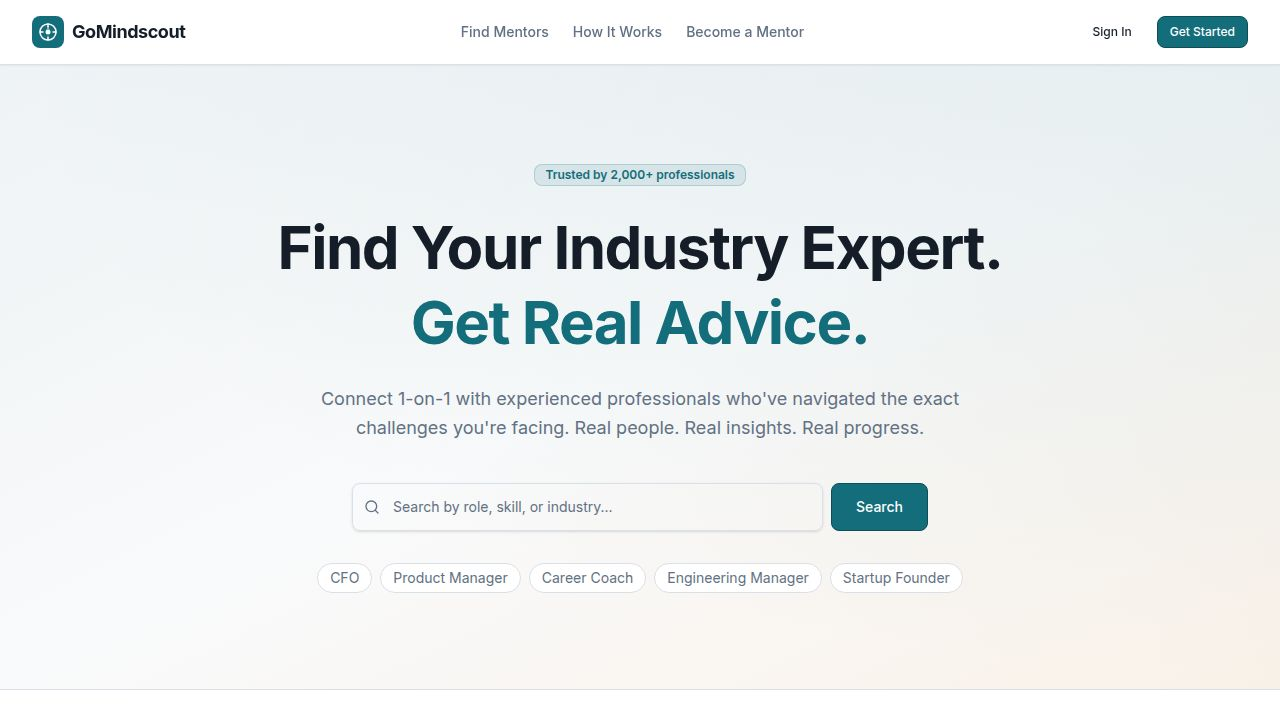
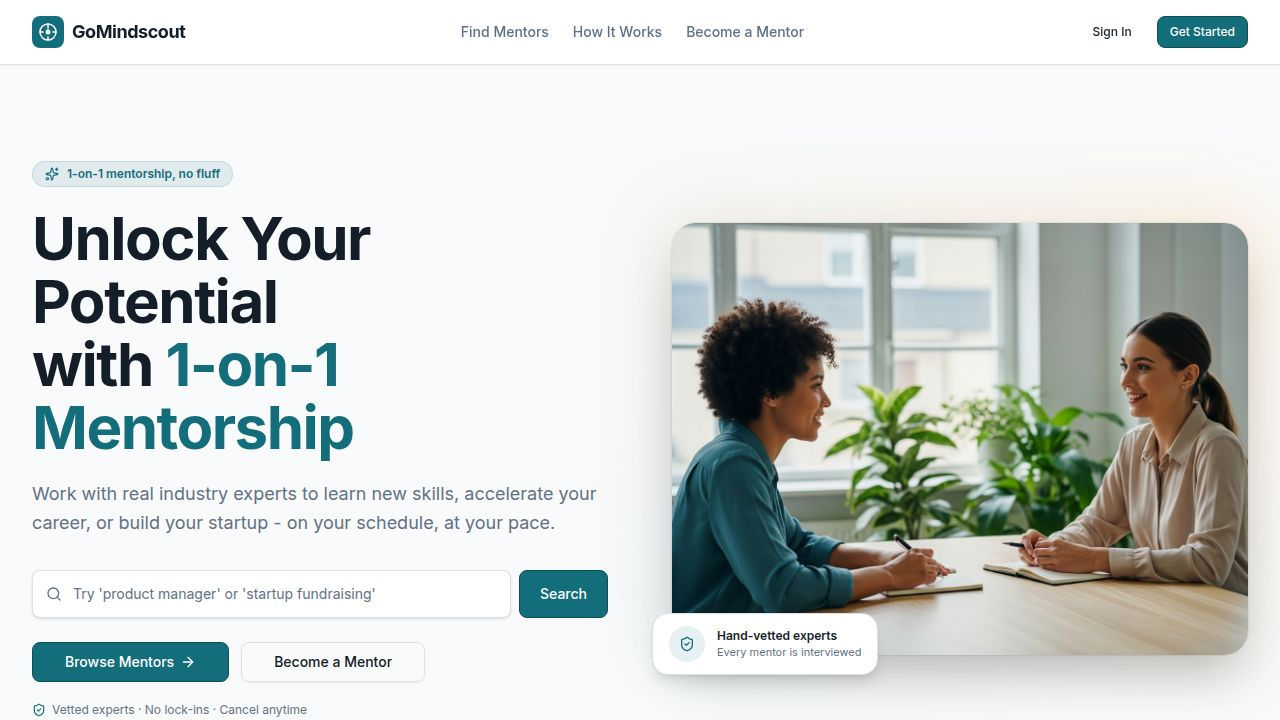
Remove email package type from the platform entirely
Remove the 'email' package type from the database schema, OpenAPI specification, API routes, seed data, and all frontend references. This change ensures that only video call packages are available for booking and display across the platform.

Replit-Commit-Author: Agent
Replit-Commit-Session-Id: 4a8be8ed-cd13-4642-8a18-407edc4f0439
Replit-Commit-Checkpoint-Type: full_checkpoint
Replit-Commit-Event-Id: c0013420-3b71-451f-8d49-6b689d5ad024
Replit-Commit-Screenshot-Url: https://storage.googleapis.com/screenshot-production-us-central1/f0a1bcf3-63e8-4cc1-b61f-0afa3e402f8b/4a8be8ed-cd13-4642-8a18-407edc4f0439/x5psZhw
Replit-Helium-Checkpoint-Created: true

diff --git a/artifacts/mentorbridge/src/pages/how-it-works.tsx b/artifacts/mentorbridge/src/pages/how-it-works.tsx
@@ -31,14 +31,14 @@ export default function HowItWorksPage() {
               icon: <CreditCard className="h-7 w-7 text-primary" />,
               title: "Book & Pay Securely",
               desc: "Choose a session package that suits your needs and pay securely via Stripe. No hidden fees - the price you see is the price you pay.",
-              points: ["30-min intro calls for quick questions", "60-min deep dives for complex challenges", "Async email advice for written guidance", "100% secure payment via Stripe"],
+              points: ["30-min intro calls for quick questions", "60-min deep dives for complex challenges", "100% secure payment via Stripe"],
             },
             {
               step: "03",
               icon: <Video className="h-7 w-7 text-primary" />,
               title: "Have Your Session",
-              desc: "Once your mentor confirms a time, the platform automatically generates a private video meeting room and emails the link to both of you. Just click and join - no downloads or setup required.",
-              points: ["Private video room auto-generated by the platform", "Meeting link sent by email to both parties", "Join from any browser, no app required", "Sessions run on time, every time"],
+              desc: "Once your mentor confirms a time, the platform automatically generates a private video meeting room with the link shared on your dashboard and theirs. Just click and join - no downloads or setup required.",
+              points: ["Private video room auto-generated by the platform", "Join from any browser, no app required", "Sessions run on time, every time"],
             },
             {
               step: "04",

diff --git a/artifacts/mentorbridge/src/pages/mentor-profile.tsx b/artifacts/mentorbridge/src/pages/mentor-profile.tsx
@@ -16,11 +16,11 @@ import {
   getListMentorPackagesQueryKey,
   getListMentorReviewsQueryKey,
 } from "@workspace/api-client-react";
-import { Globe, Linkedin, Clock, Video, Mail, CheckCircle } from "lucide-react";
+import { Globe, Linkedin, Clock, Video, CheckCircle } from "lucide-react";
 
 function PackageCard({ pkg, mentorId }: { pkg: any; mentorId: number }) {
-  const typeIcon = pkg.type === "email" ? <Mail className="h-4 w-4" /> : <Video className="h-4 w-4" />;
-  const typeLabel = pkg.type === "video_30" ? "30-min Video Call" : pkg.type === "video_60" ? "60-min Video Call" : "Email Advice";
+  const typeIcon = <Video className="h-4 w-4" />;
+  const typeLabel = pkg.type === "video_30" ? "30-min Video Call" : "60-min Video Call";
 
   return (
     <Card className="p-5 flex flex-col gap-3 hover:shadow-md transition-shadow" data-testid="package-card">

diff --git a/lib/db/src/seed.ts b/lib/db/src/seed.ts
@@ -40,7 +40,6 @@ async function seed() {
       packages: [
         { title: "30-min Finance Strategy Call", type: "video_30", durationMinutes: 30, price: "125", description: "Tackle your most pressing finance question." },
         { title: "60-min CFO Advisory Session", type: "video_60", durationMinutes: 60, price: "250", description: "Deep dive into financial modeling or fundraising strategy." },
-        { title: "Email Advice", type: "email", price: "75", description: "Written guidance within 48 hours." },
       ],
     },
     {
@@ -55,7 +54,6 @@ async function seed() {
       packages: [
         { title: "30-min Engineering Career Check-in", type: "video_30", durationMinutes: 30, price: "150", description: "Career advice, job search, or system design review." },
         { title: "60-min Leadership Deep Dive", type: "video_60", durationMinutes: 60, price: "300", description: "Coaching on engineering leadership or technical strategy." },
-        { title: "Resume & LinkedIn Review", type: "email", price: "100", description: "Written feedback on your engineering profile." },
       ],
     },
     {
@@ -70,7 +68,6 @@ async function seed() {
       packages: [
         { title: "30-min PM Strategy Session", type: "video_30", durationMinutes: 30, price: "100", description: "Focused discussion on a product challenge or career move." },
         { title: "60-min Product Coaching", type: "video_60", durationMinutes: 60, price: "200", description: "In-depth coaching on product strategy or PM career development." },
-        { title: "Portfolio & Resume Review", type: "email", price: "80", description: "Detailed written feedback on your PM portfolio." },
       ],
     },
     {
@@ -85,7 +82,6 @@ async function seed() {
       packages: [
         { title: "30-min Founder Office Hours", type: "video_30", durationMinutes: 30, price: "90", description: "Quick session on fundraising, pitching, or startup strategy." },
         { title: "60-min Startup Deep Dive", type: "video_60", durationMinutes: 60, price: "175", description: "Comprehensive session on your startup's biggest challenge." },
-        { title: "Pitch Deck Review", type: "email", price: "150", description: "Detailed written feedback on your pitch deck." },
       ],
     },
     {
@@ -100,7 +96,6 @@ async function seed() {
       packages: [
         { title: "30-min Marketing Strategy Call", type: "video_30", durationMinutes: 30, price: "90", description: "Quick advice on your marketing channel or brand challenge." },
         { title: "60-min Growth Strategy Session", type: "video_60", durationMinutes: 60, price: "180", description: "Full marketing audit and growth strategy for your brand." },
-        { title: "Marketing Plan Review", type: "email", price: "75", description: "Written feedback on your marketing plan or campaign." },
       ],
     },
     {
@@ -115,7 +110,6 @@ async function seed() {
       packages: [
         { title: "30-min Healthcare Career Advice", type: "video_30", durationMinutes: 30, price: "175", description: "Career guidance for healthcare professionals." },
         { title: "60-min MedTech Strategy Session", type: "video_60", durationMinutes: 60, price: "350", description: "Strategic advice on hospital sales or career transition." },
-        { title: "Written Consultation", type: "email", price: "125", description: "Detailed written guidance on your healthcare challenge." },
       ],
     },
   ];

diff --git a/artifacts/api-server/src/routes/packages.ts b/artifacts/api-server/src/routes/packages.ts
@@ -1,7 +1,7 @@
 import { Router } from "express";
 import { getAuth } from "@clerk/express";
 import { db, packagesTable, mentorProfilesTable } from "@workspace/db";
-import { eq, and } from "drizzle-orm";
+import { eq, and, or } from "drizzle-orm";
 import { requireAuth, getUserByClerkId } from "../lib/auth";
 
 const router = Router();
@@ -26,7 +26,7 @@ router.get("/:mentorId/packages", async (req, res) => {
     const packages = await db
       .select()
       .from(packagesTable)
-      .where(and(eq(packagesTable.mentorId, mentorId), eq(packagesTable.isActive, true)));
+      .where(and(eq(packagesTable.mentorId, mentorId), eq(packagesTable.isActive, true), or(eq(packagesTable.type, "video_30"), eq(packagesTable.type, "video_60"))));
     res.json(packages.map(packageToResponse));
   } catch (err) {
     req.log.error({ err }, "Error listing mentor packages");
@@ -49,6 +49,7 @@ router.post("/", requireAuth, async (req, res) => {
     if (!mentor) { res.status(404).json({ error: "No mentor profile" }); return; }
 
     const { title, description, type, durationMinutes, price } = req.body;
+    if (type === "email") { res.status(400).json({ error: "Email packages are not supported" }); return; }
     const [pkg] = await db.insert(packagesTable).values({
       mentorId: mentor.id,
       title,

diff --git a/artifacts/mentorbridge/src/pages/mentor-dashboard.tsx b/artifacts/mentorbridge/src/pages/mentor-dashboard.tsx
@@ -113,7 +113,7 @@ function ScheduleSessionDialog({ booking, onClose }: { booking: any; onClose: ()
         <div className="space-y-4 py-2">
           <div className="bg-primary/5 border border-primary/20 rounded-lg p-3 text-sm text-muted-foreground">
             <p className="font-medium text-foreground mb-1">Platform will auto-generate a meeting room</p>
-            <p>Once you confirm the time, a unique video meeting link is created and sent to you and your mentee by email.</p>
+            <p>Once you confirm the time, a unique video meeting link is created and shared in your dashboard.</p>
           </div>
           <div className="space-y-2">
             <Label htmlFor="scheduled-at">Session Date & Time</Label>
@@ -273,7 +273,7 @@ function ApprovalRow({ booking }: { booking: any }) {
       { bookingId: booking.id },
       {
         onSuccess: () => {
-          toast({ title: "Booking approved!", description: "Meeting room generated and confirmation emails sent." });
+          toast({ title: "Booking approved!", description: "Meeting room generated." });
           queryClient.invalidateQueries({ queryKey: getListMyBookingsQueryKey() });
           queryClient.invalidateQueries({ queryKey: getGetMentorDashboardStatsQueryKey() });
         },

diff --git a/artifacts/mentorbridge/src/pages/become-a-mentor.tsx b/artifacts/mentorbridge/src/pages/become-a-mentor.tsx
@@ -53,7 +53,7 @@ export default function BecomeAMentorPage() {
           <div className="space-y-6">
             {[
               { step: "1", title: "Apply & Get Approved", desc: "Fill out your profile - your background, expertise, and rates. Our team reviews every application within 48 hours. We approve mentors who have genuine expertise and a professional track record." },
-              { step: "2", title: "Set Up Your Packages", desc: "Create session packages: 30-min calls, 60-min deep dives, or async email advice. We suggest starting prices based on your industry, but you're always in control." },
+              { step: "2", title: "Set Up Your Packages", desc: "Create session packages: 30-min calls and 60-min deep dives. We suggest starting prices based on your industry, but you're always in control." },
               { step: "3", title: "Get Booked & Earn", desc: "Once approved and live, mentees can find and book you directly. You'll receive 80% of every session fee - GoMindscout retains a 20% platform fee that covers operations, marketing, and payment processing. Earnings are released to your balance 48 hours after session completion." },
             ].map(({ step, title, desc }) => (
               <div key={step} className="flex gap-5 bg-white rounded-xl p-6 border border-border shadow-xs">

diff --git a/artifacts/mentorbridge/src/pages/dashboard.tsx b/artifacts/mentorbridge/src/pages/dashboard.tsx
@@ -165,7 +165,7 @@ function CounterProposalCard({ booking }: { booking: any }) {
       { bookingId: booking.id },
       {
         onSuccess: () => {
-          toast({ title: "Counter-proposal accepted!", description: "Meeting room generated. Check your email for the link." });
+          toast({ title: "Counter-proposal accepted!", description: "Meeting room generated. Check your dashboard for the link." });
           queryClient.invalidateQueries({ queryKey: getListMyBookingsQueryKey() });
           queryClient.invalidateQueries({ queryKey: getGetMenteeDashboardStatsQueryKey() });
         },

diff --git a/lib/db/src/schema/packages.ts b/lib/db/src/schema/packages.ts
@@ -8,7 +8,7 @@ export const packagesTable = pgTable("packages", {
   mentorId: integer("mentor_id").notNull().references(() => mentorProfilesTable.id),
   title: text("title").notNull(),
   description: text("description"),
-  type: text("type").notNull(), // video_30 | video_60 | email
+  type: text("type").notNull(), // video_30 | video_60
   durationMinutes: integer("duration_minutes"),
   price: numeric("price", { precision: 10, scale: 2 }).notNull(),
   isActive: boolean("is_active").notNull().default(true),

diff --git a/artifacts/api-server/src/routes/bookings.ts b/artifacts/api-server/src/routes/bookings.ts
@@ -120,6 +120,7 @@ router.post("/", requireAuth, async (req, res) => {
 
     const [pkg] = await db.select().from(packagesTable).where(eq(packagesTable.id, packageId)).limit(1);
     if (!pkg) { res.status(404).json({ error: "Package not found" }); return; }
+    if (pkg.type === "email") { res.status(400).json({ error: "Email packages are not supported" }); return; }
 
     const [mentor] = await db.select().from(mentorProfilesTable).where(eq(mentorProfilesTable.id, pkg.mentorId)).limit(1);
     if (!mentor || mentor.status !== "approved") { res.status(400).json({ error: "Mentor not available" }); return; }

diff --git a/artifacts/mentorbridge/src/pages/mentor-onboarding.tsx b/artifacts/mentorbridge/src/pages/mentor-onboarding.tsx
@@ -102,7 +102,6 @@ function OnboardingContent() {
           const defaultPackages = [
             { title: "30-min Intro Call", description: "A quick intro session to discuss your goals and how I can help.", type: "video_30", durationMinutes: 30, price: form.hourlyRate ? parseFloat(form.hourlyRate) / 2 : 75 },
             { title: "60-min Deep Dive", description: "An in-depth session to tackle your specific challenge.", type: "video_60", durationMinutes: 60, price: form.hourlyRate ? parseFloat(form.hourlyRate) : 150 },
-            { title: "Email Advice", description: "Send me a detailed question and I'll give you thorough written guidance.", type: "email", price: 49 },
           ];
           defaultPackages.forEach((pkg) => {
             createPackage({ data: { ...pkg, price: pkg.price } as any });